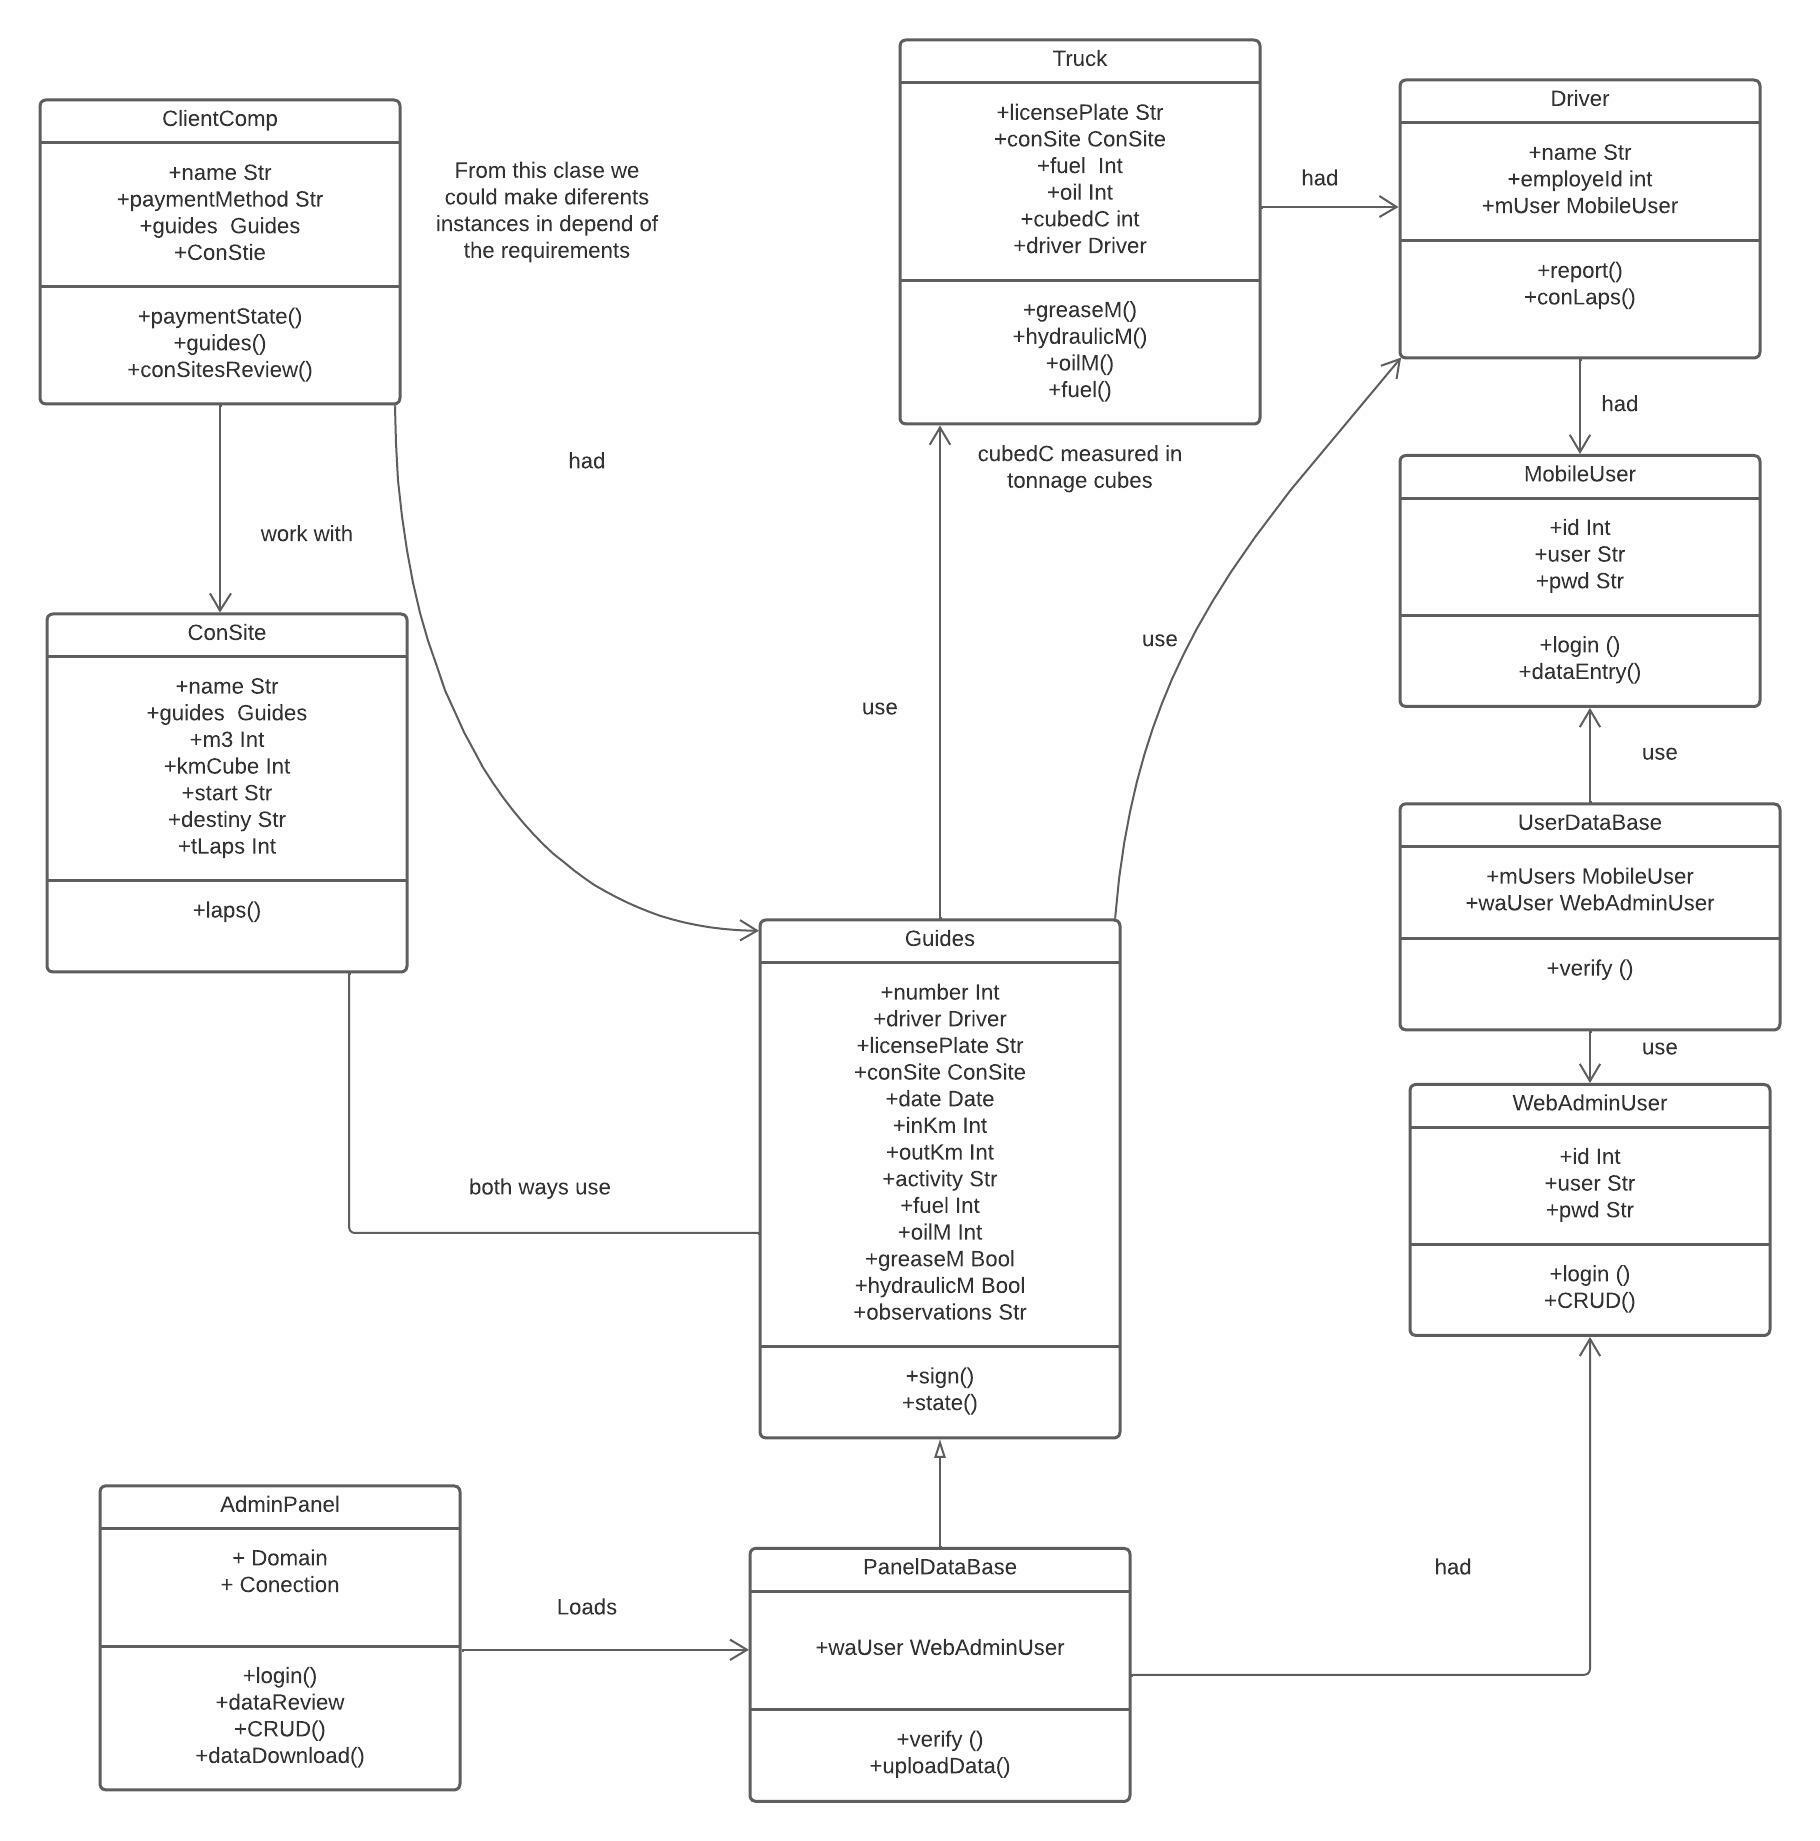
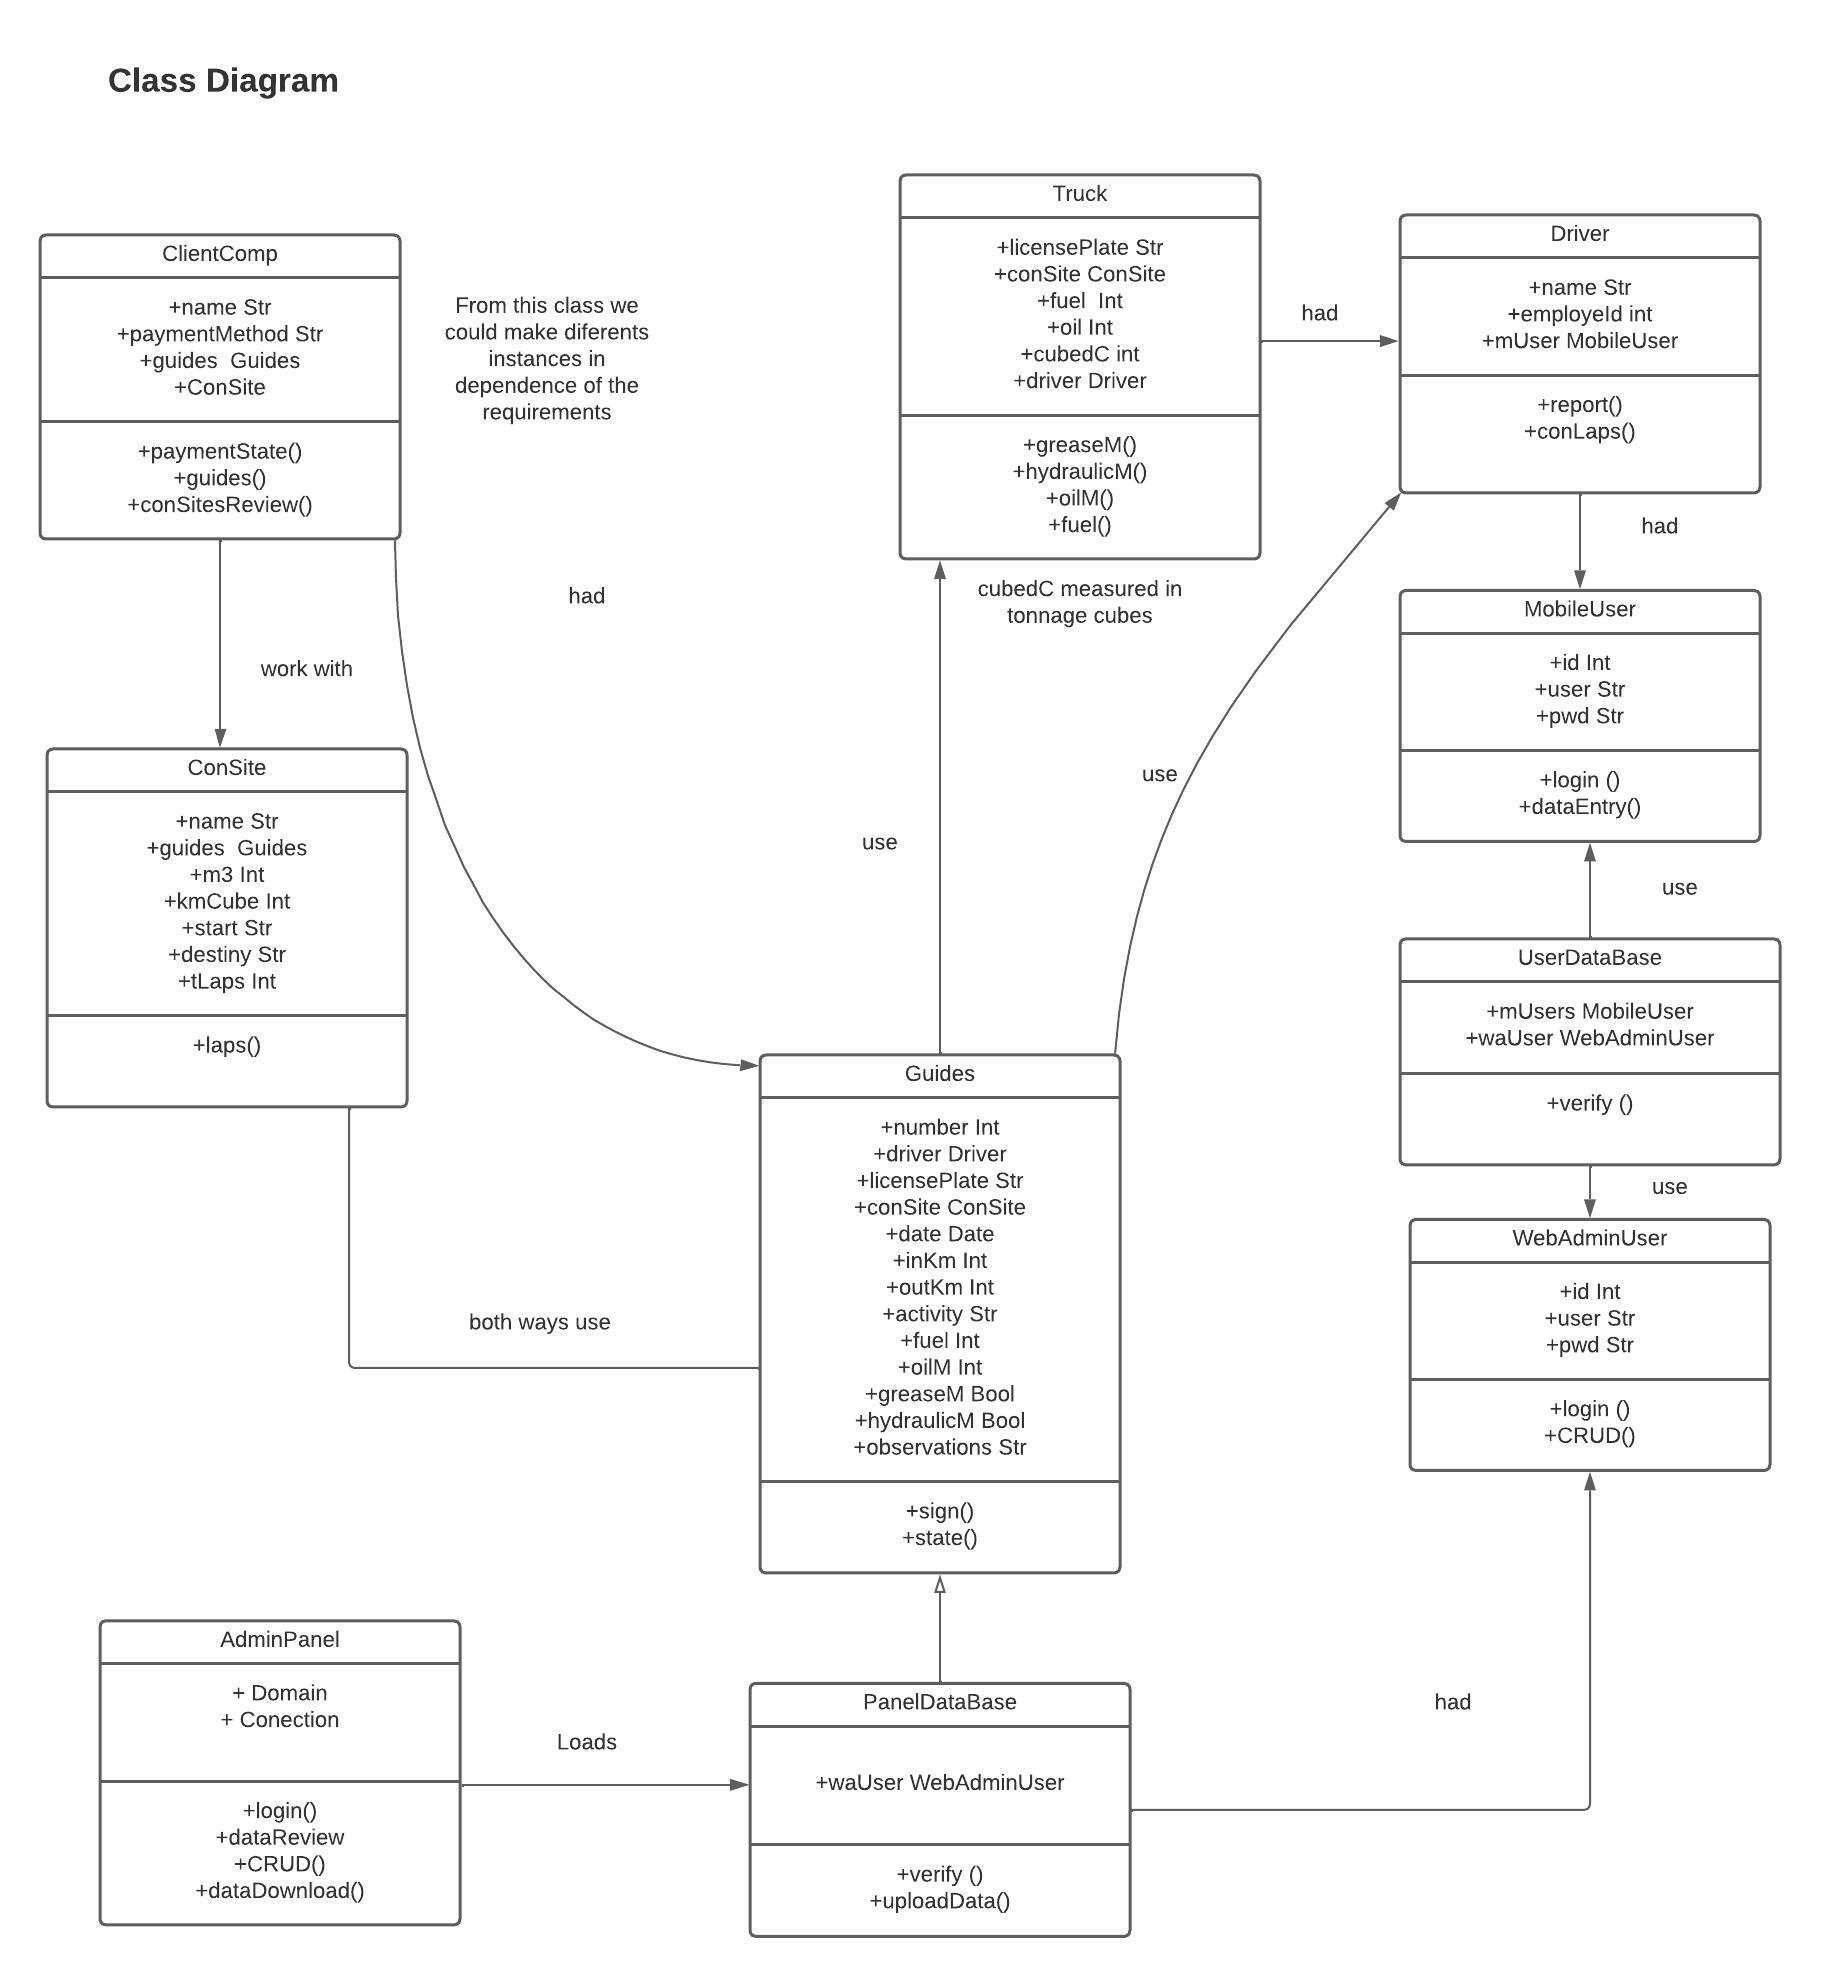
New Commit-4
in this commit I added the files corresponding to firebase auth and the correction of the class diagram.

diff --git a/transgasan_app/lib/backend-firebase/firebase_Conection.dart b/transgasan_app/lib/backend-firebase/firebase_Conection.dart
@@ -1,0 +1,154 @@
+import 'dart:html';
+import 'dart:ui';
+
+import 'package:firebase_auth/firebase_auth.dart';
+import 'package:firebase_core/firebase_core.dart';
+import 'package:flutter/material.dart';
+import 'package:transgasan_app/profile_screen.dart';
+
+class LoginPage extends StatefulWidget {
+  static String id = 'login_page';
+
+  @override
+  State<LoginPage> createState() => _LoginPageState();
+}
+
+class _LoginPageState extends State<LoginPage> {
+  //Initialiaze Firebase App
+
+  Future<FirebaseApp> _initializeFIrebase() async {
+    FirebaseApp firebaseApp = await Firebase.initializeApp();
+    return firebaseApp;
+  }
+
+  @override
+  Widget build(BuildContext context) {
+    return Scaffold(
+      body: FutureBuilder(
+          future: _initializeFIrebase(),
+          builder: (context, snapshot) {
+            if (snapshot.connectionState == ConnectionState.done) {
+              return userTextField();
+            }
+
+            return const Center(
+              child: CircularProgressIndicator(),
+            );
+          }),
+    );
+  }
+}
+
+class userTextField extends StatefulWidget {
+  const userTextField({Key? key}) : super(key: key);
+
+  @override
+  _userTextField createState() => _userTextField();
+}
+
+class _userTextField extends State<userTextField> {
+  //Login Function
+  static Future<User?> loginUsingEmailPassword(
+      {required String email,
+      required String password,
+      required BuildContext context}) async {
+    FirebaseAuth auth = FirebaseAuth.instance;
+    User? user;
+    try {
+      UserCredential userCredential = await auth.signInWithEmailAndPassword(
+          email: email, password: password);
+      user = userCredential.user;
+    } on FirebaseAuthException catch (e) {
+      if (e.code == "user-not found") {
+        print("no User Found for that email");
+      }
+    }
+    return user;
+  }
+
+  @override
+  Widget build(BuildContext context) {
+    //create the textfiedl controller
+    TextEditingController _emailController = TextEditingController();
+    TextEditingController _passwordController = TextEditingController();
+
+    return Padding(
+      padding: EdgeInsets.all(16.0),
+      child: Column(
+        mainAxisAlignment: MainAxisAlignment.center,
+        crossAxisAlignment: CrossAxisAlignment.start,
+        children: [
+          const Text("TransGasan",
+              style: TextStyle(
+                  color: Colors.black,
+                  fontSize: 28.0,
+                  fontWeight: FontWeight.bold)),
+          const Text(
+            "Login",
+            style: TextStyle(
+                color: Colors.black,
+                fontSize: 44.0,
+                fontWeight: FontWeight.bold),
+          ),
+          const SizedBox(
+            height: 44.0,
+          ),
+          TextField(
+            controller: _emailController,
+            keyboardType: TextInputType.emailAddress,
+            decoration: const InputDecoration(
+              hintText: "User Email",
+              prefixIcon: Icon(Icons.mail, color: Colors.black),
+            ),
+          ),
+          const SizedBox(
+            height: 26.0,
+          ),
+          TextField(
+            controller: _passwordController,
+            obscureText: true,
+            decoration: const InputDecoration(
+                hintText: "User Password",
+                prefixIcon: Icon(Icons.lock, color: Colors.black)),
+          ),
+          const SizedBox(
+            height: 12.0,
+          ),
+          const Text(
+            "Don´t Remember your Password?",
+            style: TextStyle(color: Colors.blue),
+          ),
+          const SizedBox(
+            height: 88.0,
+          ),
+          Container(
+            width: double.infinity,
+            child: RawMaterialButton(
+              fillColor: const Color(0xFF0069FE),
+              elevation: 0.0,
+              padding: const EdgeInsets.symmetric(vertical: 20.0),
+              shape: RoundedRectangleBorder(
+                  borderRadius: BorderRadius.circular(12.0)),
+              onPressed: () async {
+                User? user = await loginUsingEmailPassword(
+                    email: _emailController.text,
+                    password: _passwordController.text,
+                    context: context);
+                print(user);
+                if (user != null) {
+                  Navigator.of(context).pushReplacement(
+                      MaterialPageRoute(builder: (context) => ProfileScreen()));
+                }
+              },
+              child: const Text("Login",
+                  style: TextStyle(
+                    color: Colors.white,
+                    fontSize: 18.0,
+                  )),
+            ),
+          )
+        ],
+      ),
+    );
+  }
+}

diff --git a/transgasan_app/lib/backend-firebase/generated_plugin_registrant.dart b/transgasan_app/lib/backend-firebase/generated_plugin_registrant.dart
@@ -1,0 +1,18 @@
+//
+// Generated file. Do not edit.
+//
+
+// ignore_for_file: directives_ordering
+// ignore_for_file: lines_longer_than_80_chars
+
+import 'package:firebase_auth_web/firebase_auth_web.dart';
+import 'package:firebase_core_web/firebase_core_web.dart';
+
+import 'package:flutter_web_plugins/flutter_web_plugins.dart';
+
+// ignore: public_member_api_docs
+void registerPlugins(Registrar registrar) {
+  FirebaseAuthWeb.registerWith(registrar);
+  FirebaseCoreWeb.registerWith(registrar);
+  registrar.registerMessageHandler();
+}
